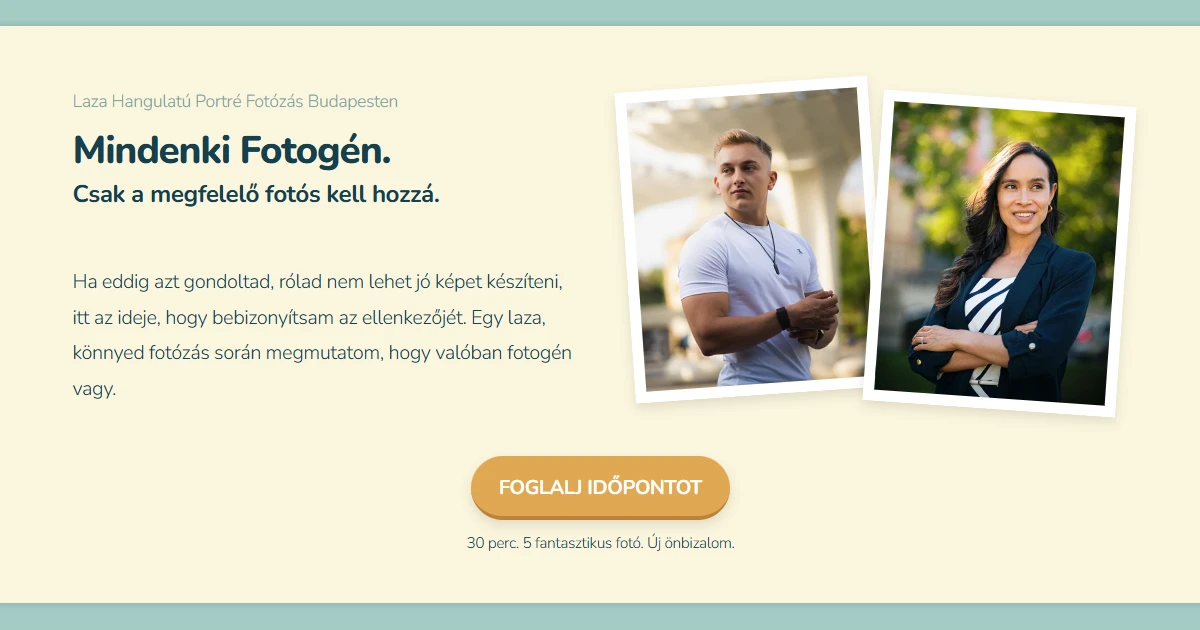
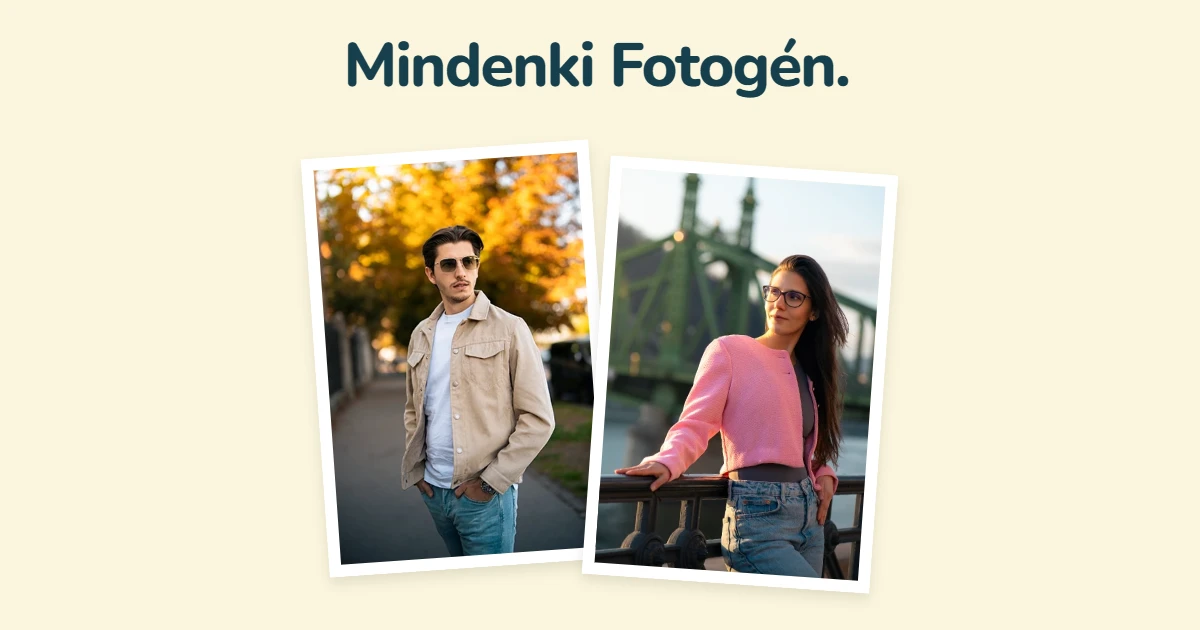
v1.08
Updated hero photos

diff --git a/src/pages/home.html b/src/pages/home.html
@@ -5,10 +5,10 @@ title: Főoldal
 description: "Mindenki fotogén. Egy laza, 30 perces fotózáson segítek megtalálni a legjobb oldalad, és olyan képeket készítünk, amikre büszke lehetsz."
 ---
 
-<link rel="preload" href="/assets/images/home/gyuri-240.webp" as="image" type="image/webp">
-<link rel="preload" href="/assets/images/home/gyuri-350.webp" as="image" type="image/webp">
-<link rel="preload" href="/assets/images/home/karen-240.webp" as="image" type="image/webp">
-<link rel="preload" href="/assets/images/home/karen-350.webp" as="image" type="image/webp">
+<link rel="preload" href="/assets/images/home/laci-240.webp" as="image" type="image/webp">
+<link rel="preload" href="/assets/images/home/laci-350.webp" as="image" type="image/webp">
+<link rel="preload" href="/assets/images/home/zsani-240.webp" as="image" type="image/webp">
+<link rel="preload" href="/assets/images/home/zsani-350.webp" as="image" type="image/webp">
 
 <main class="main home">
 	<header class="section section--hero">
@@ -25,22 +25,22 @@ description: "Mindenki fotogén. Egy laza, 30 perces fotózáson segítek megtal
 				</article>
 				<div class="hero-portraits">
 					<img class="polaroid hero-portrait hero-portrait--left"
-						 src="/assets/images/home/gyuri-240.webp"
-						 srcset="/assets/images/home/gyuri-240.webp 240w,
-						         /assets/images/home/gyuri-350.webp 350w"
+						 src="/assets/images/home/laci-240.webp"
+						 srcset="/assets/images/home/laci-240.webp 240w,
+						         /assets/images/home/laci-350.webp 350w"
 						 sizes="(max-width: 480px) 240px,
 						        350px"
-						 alt="Gyuri"
-						 title="Gyuri fotója a Széllkapu Parkban"
+						 alt="Laci"
+						 title="Laci őszi portréja a Műegyetem előtt, 2024"
 						 width="350" height="525">
 					<img class="polaroid hero-portrait hero-portrait--right"
-						 src="/assets/images/home/karen-240.webp"
-						 srcset="/assets/images/home/karen-240.webp 240w,
-						         /assets/images/home/karen-350.webp 350w"
+						 src="/assets/images/home/zsani-240.webp"
+						 srcset="/assets/images/home/zsani-240.webp 240w,
+						         /assets/images/home/zsani-350.webp 350w"
 						 sizes="(max-width: 480px) 240px,
 						        350px"
-						 alt="Gyuri"
-						 title="Karen fotója az Elvis Presley téren"
+						 alt="Zsani"
+						 title="Zsani naplementés portréja a Fővám téren, 2025"
 						 width="350" height="525">
 				</div>
 			</div>
